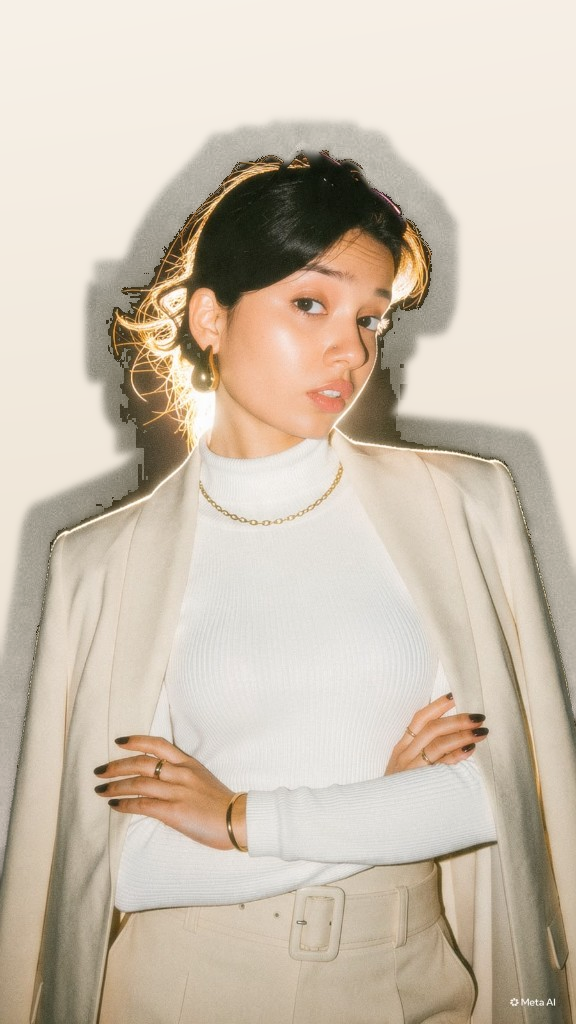
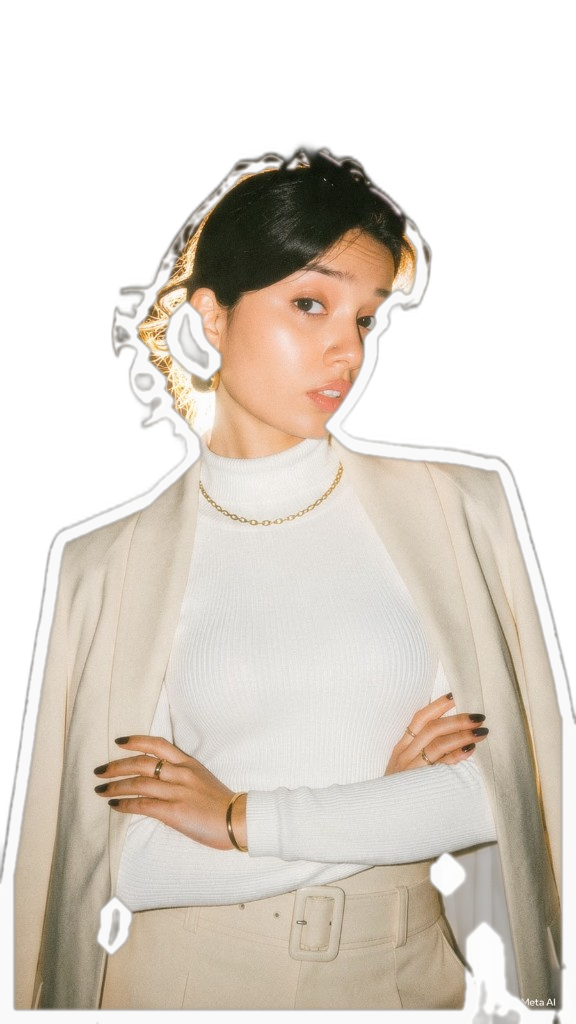
Restore a simpler About cutout without the backlight halo.
Drop the extra background glow so the portrait sits more cleanly on the page.

diff --git a/src/data.js b/src/data.js
@@ -237,7 +237,7 @@ export const ACADEMY_GALLERY = [
 export const IMAGES = {
   hero: "/images/hero-portrait.jpg",
   heroWide: "/images/hero-wide.jpg",
-  about: "/images/about-portrait.png?v=glow5",
+  about: "/images/about-portrait.png?v=cutout4",
   academy: "/images/academy.jpg?v=clr1",
   contact: "/images/contact-portrait.jpg?v=3",
 };
